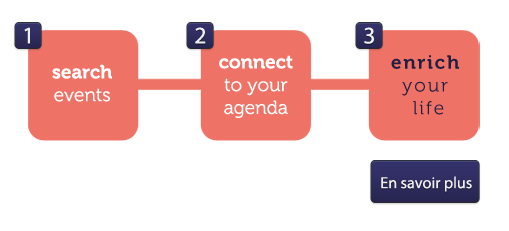
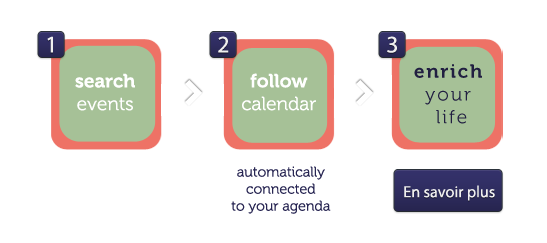
Front : Final design

diff --git a/front/www/assets/css/gazoo.css b/front/www/assets/css/gazoo.css
@@ -1,6 +1,6 @@
 body {
     padding-top: 50px;
-    background: green url('../img/home-bg.png') no-repeat center top;
+    background: #a5c095 url('../img/fonds_neutre.png') no-repeat center top;
 }
 
 .main-container {
@@ -20,8 +20,8 @@ body {
 #home .home-step {
     width: 509px;
     height: 231px;
-    margin: 57px auto 0;
-    background: transparent url('../img/home-step.png') no-repeat;
+    margin: 67px auto 0;
+    background: transparent url('../img/home-step.png') no-repeat -21px;
 }
 
 .logo {
@@ -63,7 +63,7 @@ body {
     padding: 10px;
     font-size: 20px;
     line-height: 24px;
-    color: red;
+    color: #ee7266;
     -webkit-border-radius: 0 33px 33px 0;
     -moz-border-radius: 0 33px 33px 0;
     border-radius: 0 33px 33px 0;
@@ -89,7 +89,11 @@ body {
 .results-listing-row {
     background-color: white;
     margin-bottom: 10px;
-    padding: 20px;
+    padding: 20px 20px 5px 20px;
+}
+
+.results-listing-row .follow-button {
+
 }
 
 body#entrepreneur, body#entrepreneurs {
@@ -109,7 +113,7 @@ body#foot, body#football {
 }
 
 .follow-button .btn.btn-primary {
-    width: 83px;
+    width: 123px;
     background: transparent url('../img/follow.png') no-repeat;
 }
 
@@ -130,4 +134,19 @@ input[type=password]:focus
     border: 0 !important;
     box-shadow: 0 0 0px !important;
     -webkit-box-shadow: 0 !important;
+}
+
+.calendar-name {
+
+}
+
+.calendar-name > a, .calendar-name > a:visited, .calendar-name > a:active {
+    color: #416e6f;
+    font-size: 24px;
+    text-transform: uppercase;
+    margin-bottom: 5px;
+}
+
+.next-event {
+    color: #ee7266;
 }

diff --git a/front/www/assets/js/gazoo.js b/front/www/assets/js/gazoo.js
@@ -1,6 +1,6 @@
 $(document).ready(function () {
     // Login form
-    $('#login-btn').popover();
+    $('#login-btn, .calendar-name a').popover();
 
     // Ajaxify
     $(document).on('submit click', '.ajaxify' , function(event) {
